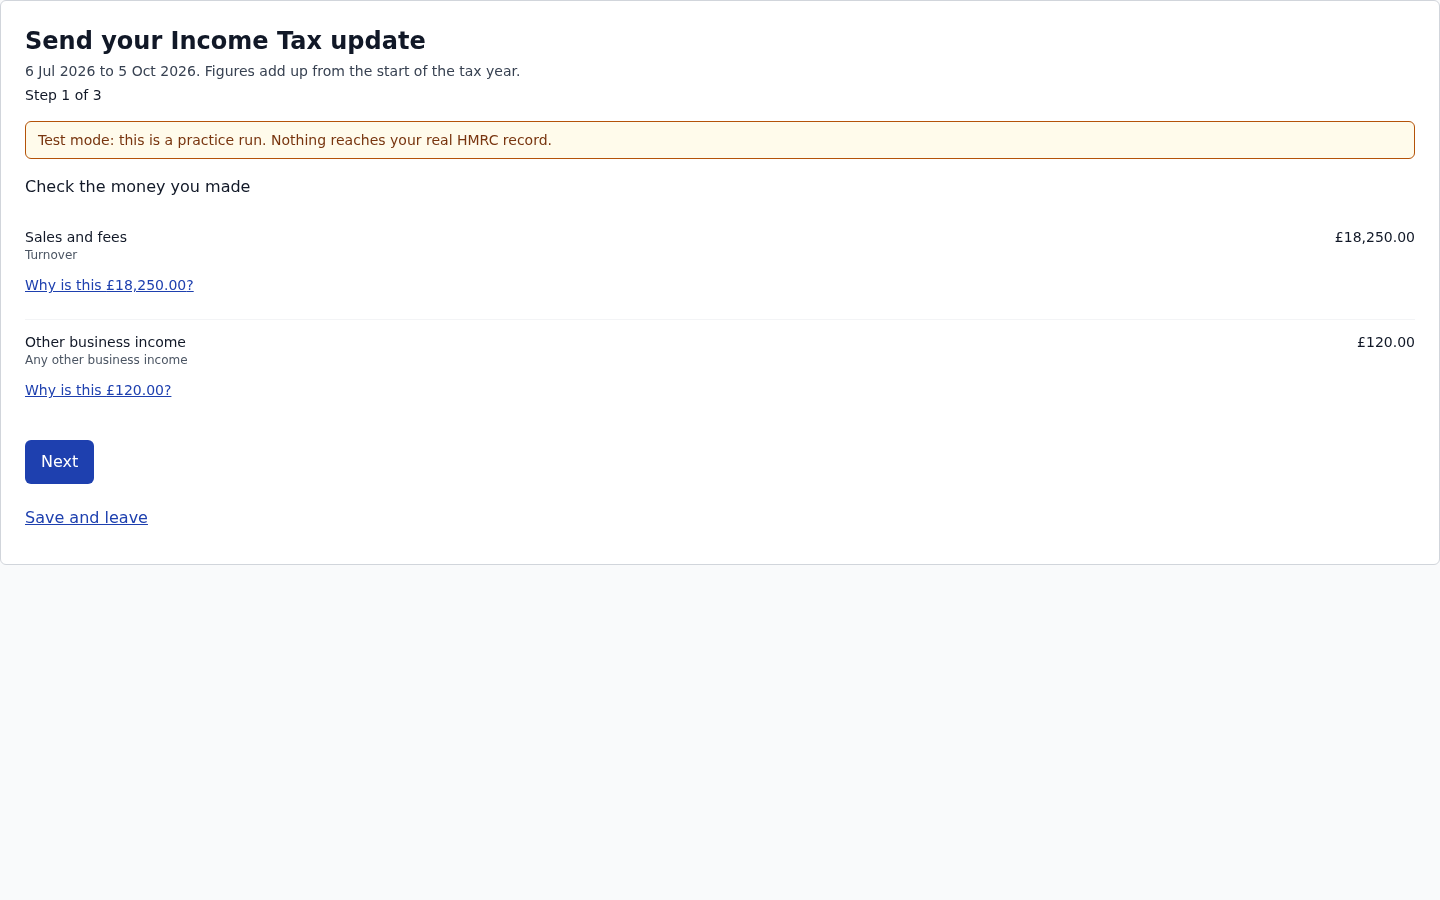
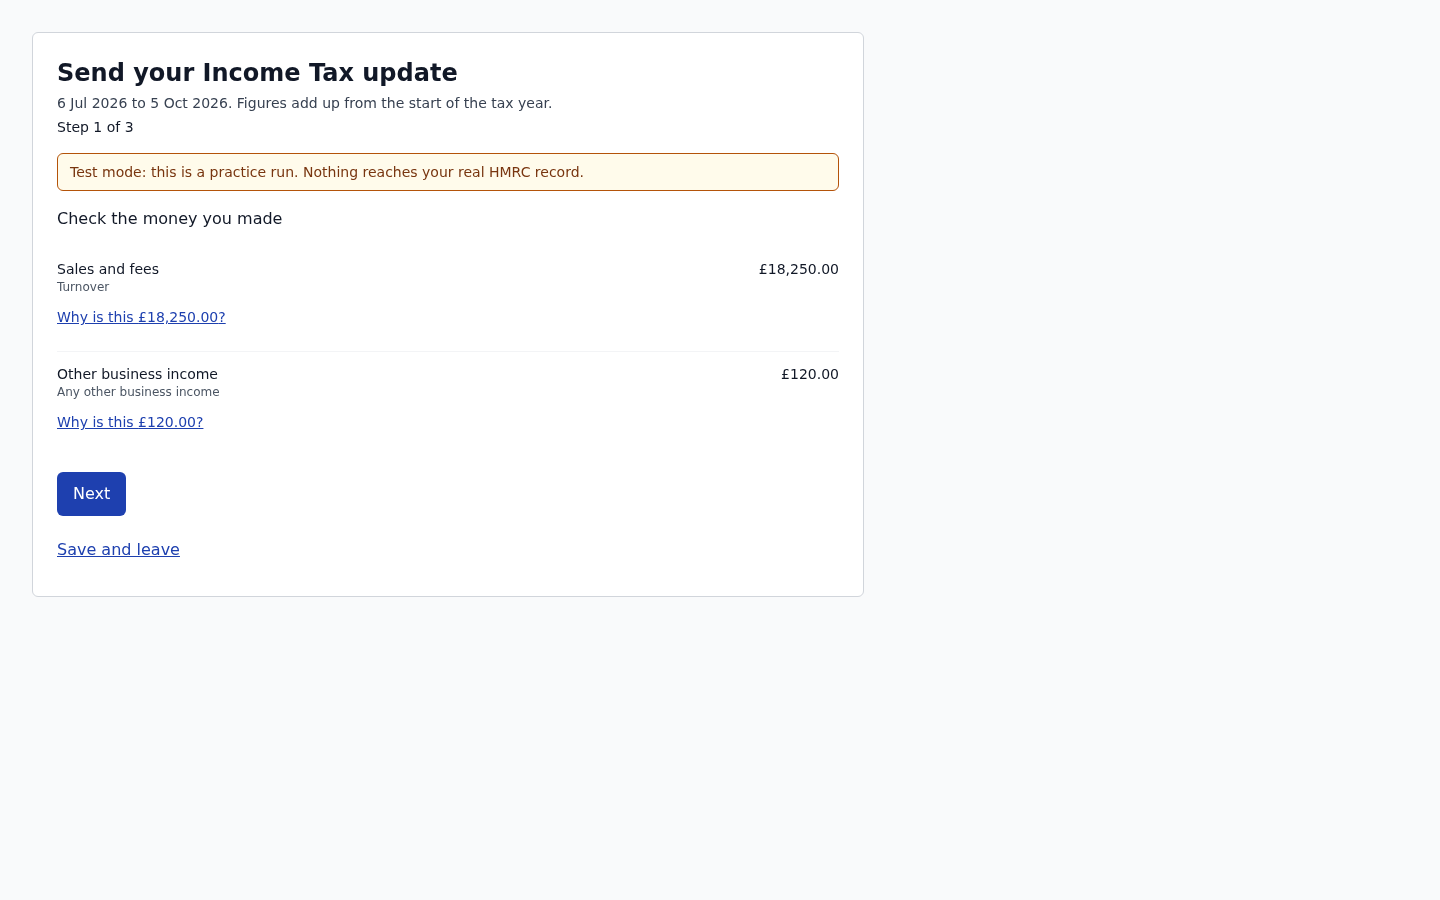
STF-86: page container on the update route, open quarters only, recaptured evidence

diff --git a/src/pages/ItsUpdatePage.test.tsx b/src/pages/ItsUpdatePage.test.tsx
@@ -8,9 +8,9 @@ import ItsUpdatePage from './ItsUpdatePage';
 
 const open = { kind: 'quarterly', taxYear: '2026-27', periodStart: '2026-04-06', periodEnd: '2026-07-05', dueDate: '2026-08-05', status: 'open', receivedDate: null, overdue: false, nextDue: true };
 
-function renderAt(path: string) {
+function renderAt(path: string, obligation: object = open) {
   vi.stubGlobal('fetch', vi.fn(async (url: string) =>
-    url.includes('its-obligations') ? Response.json({ ok: true, stale: false, obligations: [open] }) : Response.json({ ok: false, code: 'NO_NINO', error: 'x' }, { status: 409 })));
+    url.includes('its-obligations') ? Response.json({ ok: true, stale: false, obligations: [obligation] }) : Response.json({ ok: false, code: 'NO_NINO', error: 'x' }, { status: 409 })));
   render(
     <QueryClientProvider client={new QueryClient({ defaultOptions: { queries: { retry: false } } })}>
       <MemoryRouter initialEntries={[path]}>
@@ -39,5 +39,16 @@ describe('ItsUpdatePage', () => {
     renderAt('/tax/update/2026-27/3');
     expect((await screen.findByRole('alert')).textContent).toContain('could not find that update');
     expect(screen.getByRole('link', { name: 'Back to Tax' }).getAttribute('href')).toBe('/tax');
+  });
+
+  it('does not open the update for a quarter that is already sent', async () => {
+    renderAt('/tax/update/2026-27/1', { ...open, status: 'fulfilled', receivedDate: '2026-07-20' });
+    expect((await screen.findByRole('alert')).textContent).toContain('could not find that update');
+  });
+
+  it('wraps the screen in the shared page container', async () => {
+    renderAt('/tax/update/2026-27/1');
+    await screen.findByRole('heading', { name: 'Send your Income Tax update' });
+    expect(screen.getByRole('main').className).toContain('max-w-4xl');
   });
 });

diff --git a/src/pages/ItsUpdatePage.tsx b/src/pages/ItsUpdatePage.tsx
@@ -12,11 +12,11 @@ export default function ItsUpdatePage() {
   const navigate = useNavigate();
   const obligations = useQuery({ queryKey: ['its-obligations'], queryFn: () => fetchItsObligations(), retry: false });
   const found = obligations.data && 'obligations' in obligations.data
-    ? obligations.data.obligations.find((row) => row.taxYear === taxYear && String(quarterOf(row)) === quarter)
+    ? obligations.data.obligations.find((row) => row.taxYear === taxYear && String(quarterOf(row)) === quarter && row.status === 'open')
     : undefined;
 
   return (
-    <>
+    <main className="max-w-4xl p-4 md:p-8">
       {obligations.isPending && <StateMessage kind="loading">Loading your update…</StateMessage>}
       {obligations.isError && <StateMessage kind="error">Could not load your Income Tax dates. Reload the page to try again.</StateMessage>}
       {found && <ItsQuarterlyReview key={found.periodStart} obligation={found} onClose={() => navigate('/tax')} />}
@@ -26,6 +26,6 @@ export default function ItsUpdatePage() {
           <Link to="/tax" className="inline-flex min-h-11 items-center text-blue-800 underline">Back to Tax</Link>
         </>
       )}
-    </>
+    </main>
   );
 }
